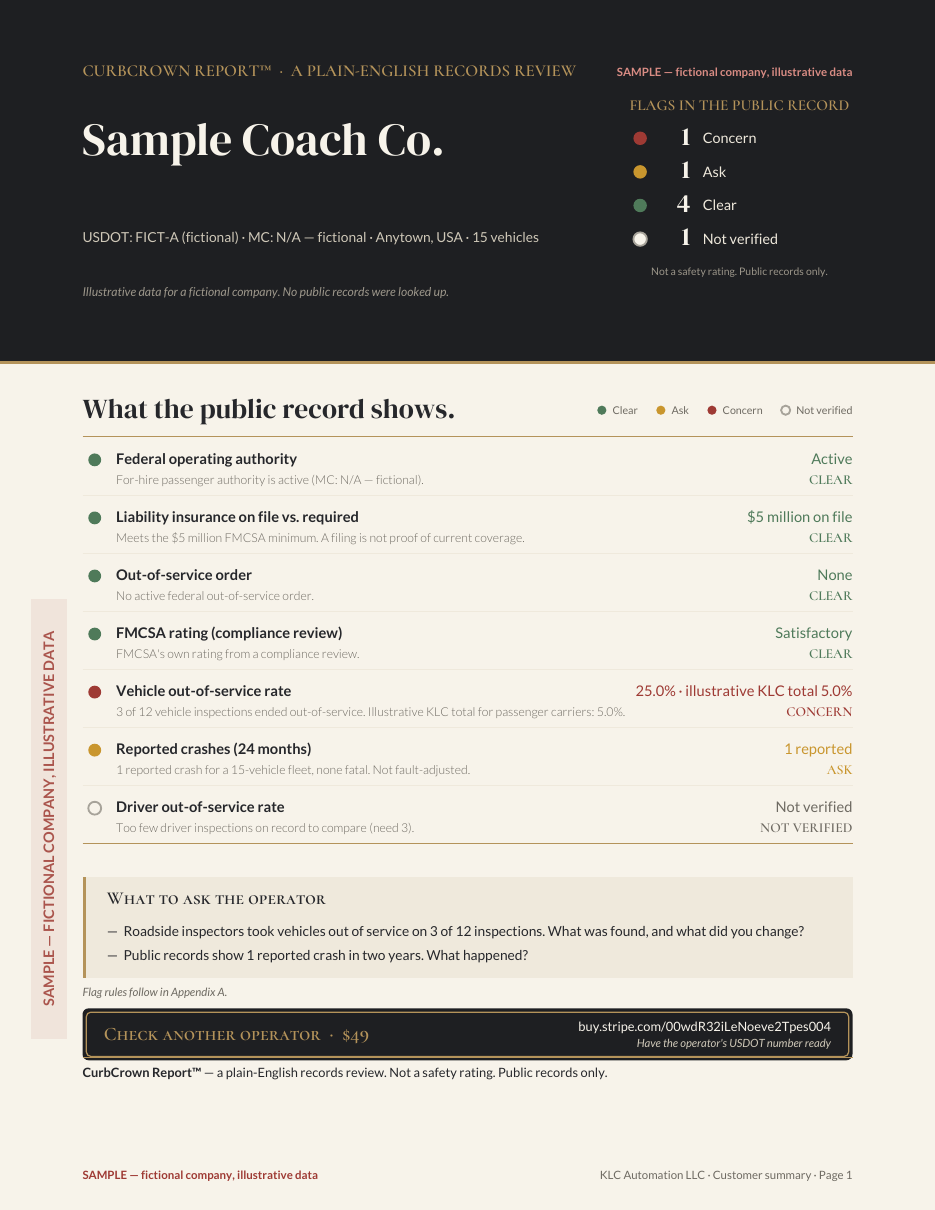
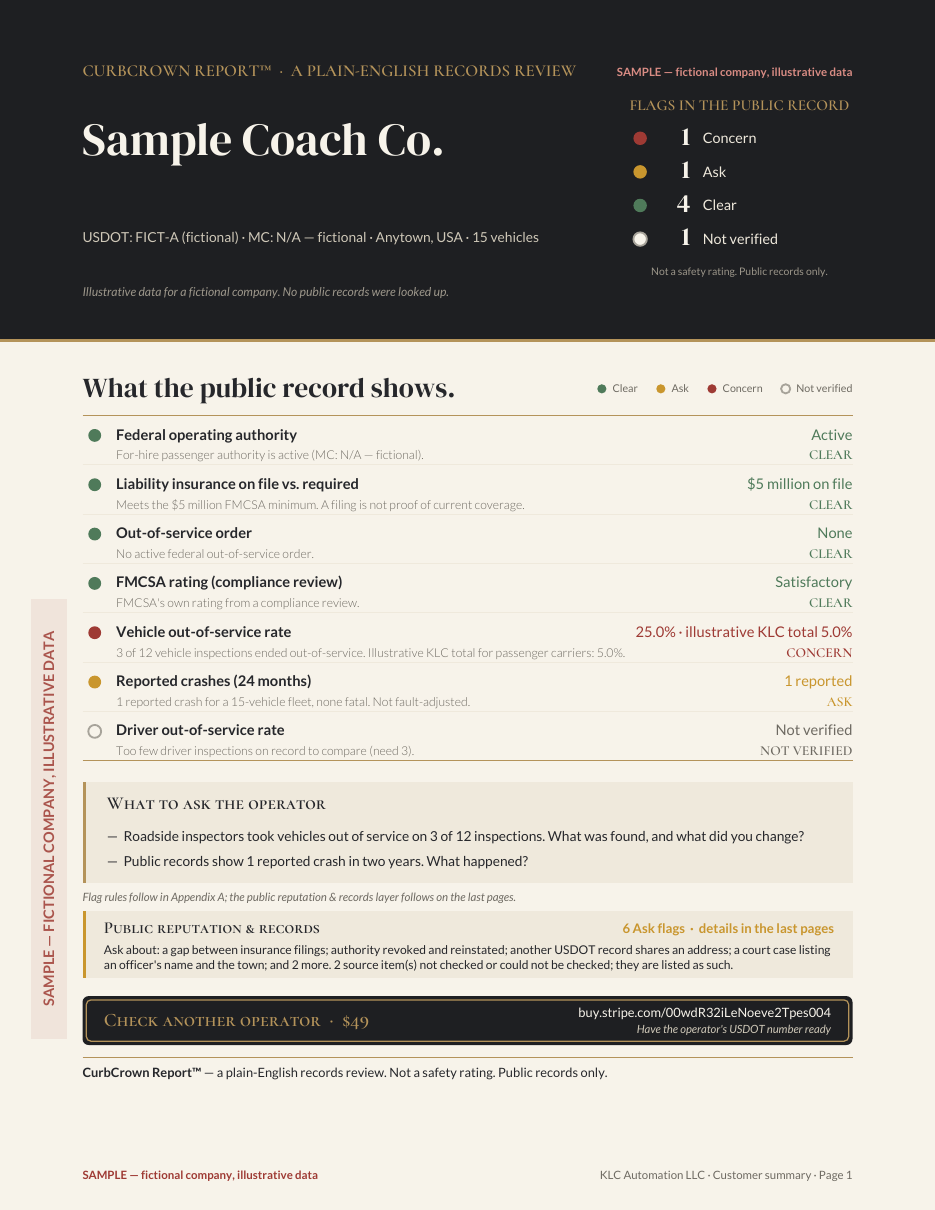
Add 'What we check' section and public-records sample page
Adds one plain section listing what each CurbCrown Report checks
(FMCSA authority and insurance history, related USDOT numbers,
officer names, hand-checked BBB, Yelp and Indiana court counts) and
swaps in the sample page that shows the public reputation and records
summary. Payment links, prices, mailto and footer are unchanged.

Changed region(s): [[0.0, 0.2752, 1.0, 0.8868], [0.6203, 0.3364, 0.8064, 0.3669], [0.062, 0.6727, 0.093, 0.7033]]

diff --git a/index.html b/index.html
@@ -42,6 +42,14 @@
     padding:14px 18px;font-size:1.05rem;font-family:inherit;width:100%;text-align:center;
     text-decoration:none;line-height:1.2}
   .btn:hover{background:#222}
+  .check{max-width:34em}
+  .check .lead{max-width:40ch}
+  .check ul{list-style:none;margin:18px auto 0;padding:0;text-align:left}
+  .check li{position:relative;padding:9px 0 9px 22px;border-top:1px solid var(--line);font-size:1rem}
+  .check li:last-child{border-bottom:1px solid var(--line)}
+  .check li::before{content:"";position:absolute;left:4px;top:1.15em;width:6px;height:6px;border-radius:50%;background:var(--gold)}
+  .check .fine{max-width:44ch}
+  .check .grp{margin:20px auto 0;max-width:40ch;font-size:.82rem;letter-spacing:.06em;text-transform:uppercase;font-weight:700;color:var(--muted)}
   .request-wrap{max-width:360px;margin:0 auto}
   .fine{font-size:.86rem;color:var(--muted);margin:12px auto 0;max-width:36ch}
   .pack-line{margin:14px auto 0;font-size:.95rem}
@@ -69,9 +77,27 @@
     <h1>Know who you’re booking before the big night</h1>
 
     <figure class="sample">
-      <img src="sample-page1.png" width="935" height="1210" alt="Sample CurbCrown Report page 1 for a fictional company with illustrative data">
+      <img src="sample-page1.png" width="935" height="1210" alt="Sample CurbCrown Report page 1 for a fictional company with illustrative data, including the public reputation and records summary">
       <figcaption class="sample-label">Sample report page — fictional company, illustrative data.</figcaption>
     </figure>
+
+    <section class="check" aria-labelledby="what-we-check">
+      <h2 id="what-we-check">What we check</h2>
+      <p class="lead">Each report lists what we checked, with the source and the date checked for each item.</p>
+      <p class="grp">Checked automatically from FMCSA records</p>
+      <ul>
+        <li>Operating authority and insurance filing history, including any gaps between filings (carriers with an MC or MX docket)</li>
+        <li>Authority that was revoked and later reinstated</li>
+        <li>Other USDOT numbers that share an address, phone number or email domain (shared details can be innocent)</li>
+        <li>Owner and officer names as FMCSA lists them</li>
+      </ul>
+      <p class="grp">Checked by hand, once per order</p>
+      <ul>
+        <li>BBB: complaint and review counts. Yelp: review counts</li>
+        <li>Indiana court records: a name-and-location search (Indiana operators only)</li>
+      </ul>
+      <p class="fine">News and state attorney general searches are added when we run them for an order. Anything we could not check is listed as not checked. Each flag is a question to ask the operator, not a conclusion.</p>
+    </section>
 
     <section aria-labelledby="first-check">
       <h2 id="first-check">First check free for planners and venues</h2>
